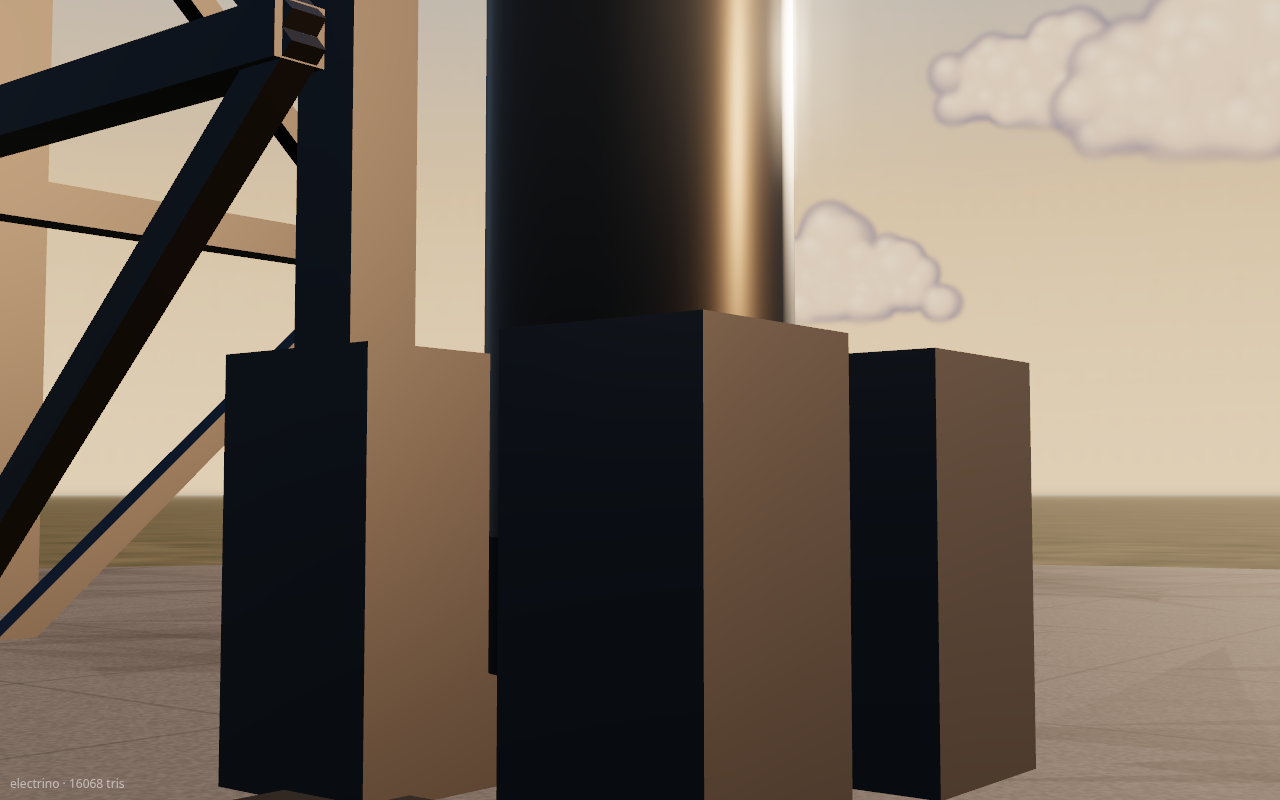
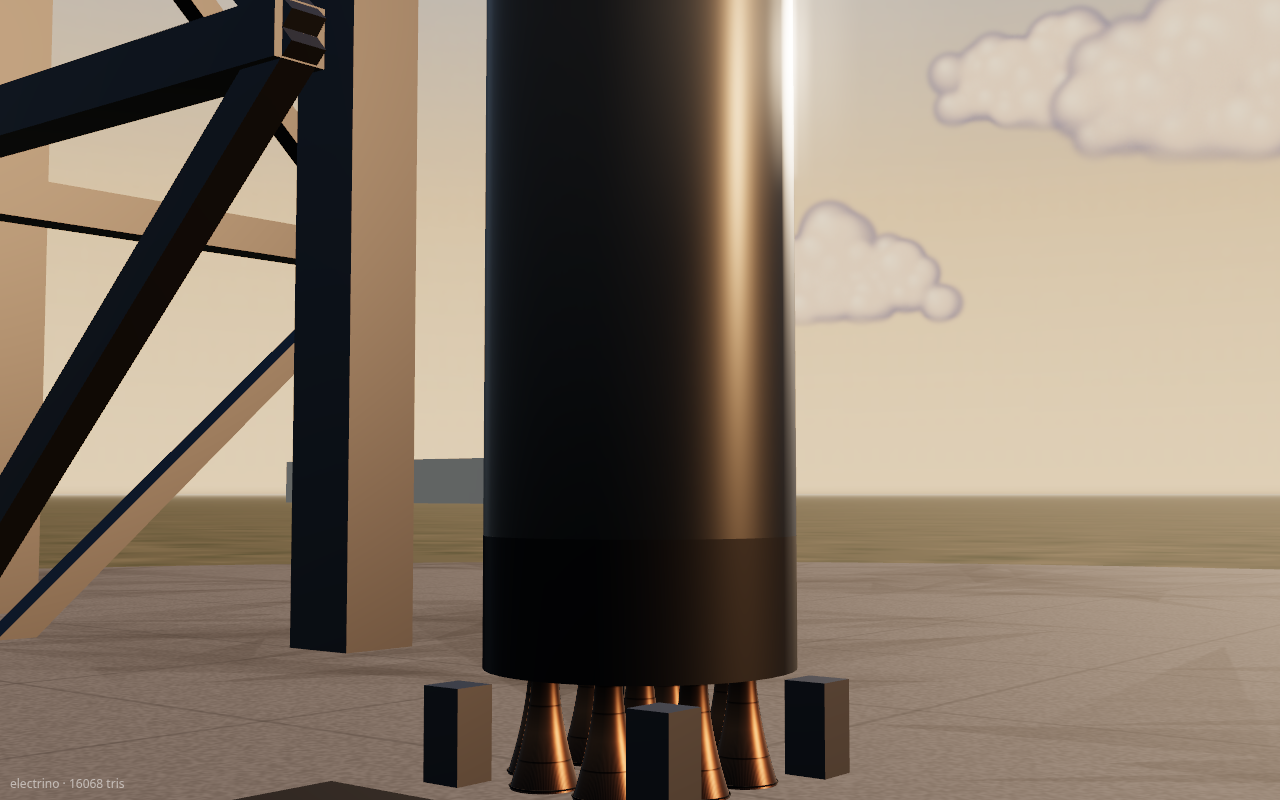
hero set: hold-down clamps scale with vehicle radius (were hiding Electrino engines); re-shoot base

Changed region(s): [[0.1562, 0.375, 0.8125, 1.0]]

diff --git a/gfx/vehicles/hero.html b/gfx/vehicles/hero.html
@@ -70,7 +70,7 @@ function setStage(id, h, rV) { clearStage(); let lift = 0; const small = h < 10;
   if (id.startsWith('titan')) { const tw = build('catch-tower', { open: 0.9 }); stage.add(tw); lift = tw.children[0].userData.mountY; }
   else if (id !== 'catch-tower') { const TH = h * 1.08, W = Math.max(5, h * 0.075), TX = -(rV + W / 2 + 4); lattice(stage, TH, W, TX, 0);
     const arm = new THREE.Mesh(new THREE.BoxGeometry(Math.abs(TX) - rV - W / 2 + 0.6, 2.2, 2.4), steelM); arm.position.set(TX + W / 2 + (Math.abs(TX) - rV - W / 2) / 2, h * 0.86, 0); stage.add(arm);
-    for (let i = 0; i < 4; i++) { const a = i * Math.PI / 2 + 0.78, c = new THREE.Mesh(new THREE.BoxGeometry(0.8, 1.6, 0.8), steelM); c.position.set(Math.cos(a) * (rV + 0.4), lift + 0.8, Math.sin(a) * (rV + 0.4)); stage.add(c); } }
+    for (let i = 0; i < 4; i++) { const a = i * Math.PI / 2 + 0.78, k = Math.min(0.8, rV * 0.3), c = new THREE.Mesh(new THREE.BoxGeometry(k, k * 2, k), steelM); c.position.set(Math.cos(a) * (rV + k * 0.5), lift + k, Math.sin(a) * (rV + k * 0.5)); stage.add(c); } }
   // distant service buildings, tanks, light masts, roads
   const bm = new THREE.MeshStandardMaterial({ color: 0xcfc6b6, roughness: 0.85 });
   for (const [x, z, w, hh, d] of [[-160, 120, 50, 16, 26], [190, -160, 34, 22, 34], [-260, -240, 70, 10, 22], [320, 90, 26, 30, 26]]) { const b = new THREE.Mesh(new THREE.BoxGeometry(w, hh, d), bm); b.position.set(x, hh / 2, z); stage.add(b); }
